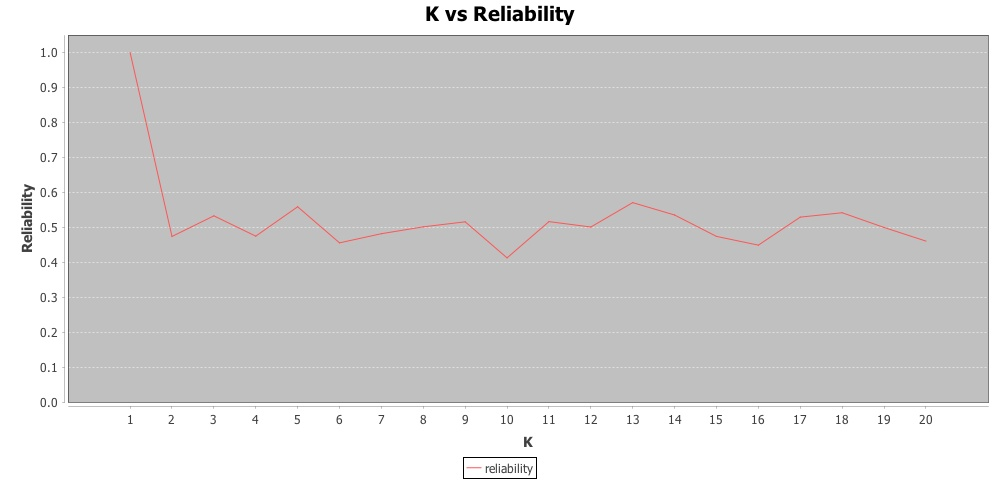
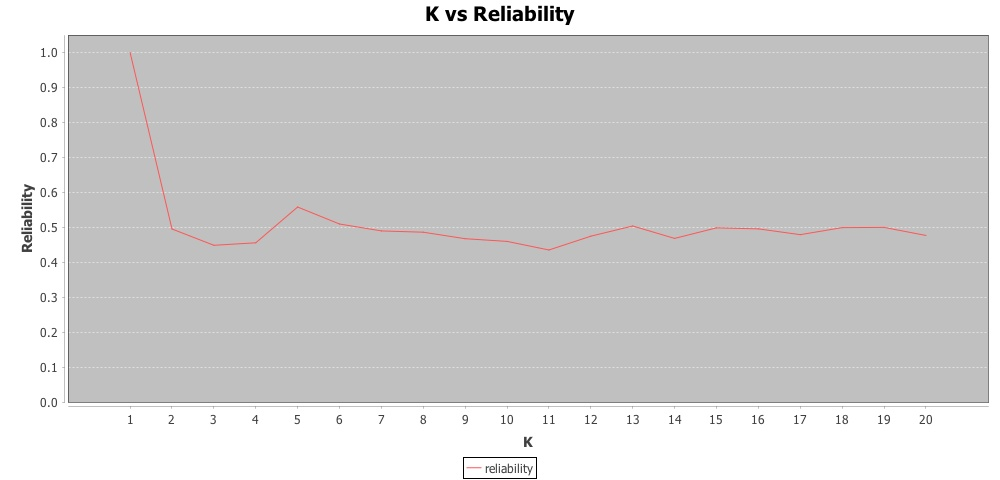
Leet Code practice code

diff --git a/JulyLeetCode/leetCode/BinaryTree.java b/JulyLeetCode/leetCode/BinaryTree.java
@@ -1,0 +1,116 @@
+package leetCode;
+
+import java.util.ArrayList;
+import java.util.Iterator;
+import java.util.LinkedList;
+import java.util.List;
+import java.util.Queue;
+import java.util.Stack;
+
+/**
+ * 230. Kth Smallest Element in a BST
+ * 
+ * Given a binary search tree, write a function kthSmallest to find the kth smallest element in it.
+ * Note: 
+ * You may assume k is always valid, 1 ? k ? BST's total elements.
+ * Follow up:
+ * What if the BST is modified (insert/delete operations) often and you need to find the kth smallest frequently? How would you optimize the kthSmallest routine?
+ * @author dbuch
+ *
+ */
+public class BinaryTree {
+
+	static class TreeNode {
+		      int val;
+		      TreeNode left;
+		      TreeNode right;
+		      TreeNode(int x) { val = x; }
+	}
+		 
+	public static void main(String[] args) {
+		/*TreeNode root = new TreeNode(3);
+		root.left = new TreeNode(9);
+		root.right = new TreeNode(20);
+		root.right.right = new TreeNode(7);
+		root.right.left = new TreeNode(15);*/
+		
+		/*TreeNode root = new TreeNode(3);
+		root.left = new TreeNode(1);
+		root.right = new TreeNode(5);
+		root.left.left = new TreeNode(0);
+		root.left.right = new TreeNode(2);
+		root.right.left = new TreeNode(4);
+		root.right.right = new TreeNode(6);*/
+		
+		TreeNode root = new TreeNode(5);
+		root.left = new TreeNode(2);
+		root.right = new TreeNode(-3);
+		List<Double> list = averageOfLevels(root);
+		for (Iterator iterator = list.iterator(); iterator.hasNext();) {
+			Double double1 = (Double) iterator.next();
+			System.out.println(double1);
+		}
+	}
+	
+	 static int kthSmallest(TreeNode root, int k) {
+	        ArrayList<Integer> result = new  ArrayList<Integer>();
+	        traverse(root, result, k);
+	        return result.get(k-1) ;
+	    }
+	    
+	    static  void traverse(TreeNode node,  ArrayList<Integer> result, int k){
+	                if(node.left != null)  traverse(node.left , result, k);
+	                result.add(node.val);                 
+	                if(node.right != null)  traverse(node.right , result, k);  
+	    }
+	
+public static List<Double> averageOfLevels(TreeNode root) {
+	Queue<TreeNode> stack = new LinkedList<>();
+	List<Double> list = new LinkedList<>() ;
+	double n = 0.0 ;
+	double count = 0.0 ;
+	double sum = 0.0 ;
+	double nodeCount = 0.0 ;
+	
+	stack.offer(root);
+	
+	while(!stack.isEmpty()){
+		TreeNode temp = stack.poll();
+		if(temp == null) {
+			count++;
+			if(count >= Math.pow(2, n)){
+				if(nodeCount != 0.0)
+				list.add((double) (sum/nodeCount));
+				sum = 0.0 ;
+				count = 0.0 ;
+				nodeCount = 0.0;
+				n++ ;
+			}
+			continue ;
+		}
+		System.out.println("current node :" + temp.val + " level : " +  n);
+		count++;
+		sum+=temp.val ;
+		nodeCount++;
+
+		if(count >= Math.pow(2, n)){
+			list.add((double) (sum/nodeCount));
+			sum = 0.0 ;
+			count = 0.0 ;
+			nodeCount = 0.0;
+			n++ ;
+		}
+		stack.offer(temp.left); 
+		stack.offer(temp.right);
+	}
+	System.out.println("current nodecount :" +nodeCount + " sum : " +  sum);
+if(sum > 0.0) {
+	list.add((double) (sum/nodeCount));
+
+}
+	return list;
+        
+    }
+
+
+}

diff --git a/JulyLeetCode/leetCode/Equation.java b/JulyLeetCode/leetCode/Equation.java
@@ -1,0 +1,50 @@
+package leetCode;
+
+public class Equation {
+
+	public static void main(String[] args) {
+		System.out.println(isPalindrome(-2147483648));
+		System.out.println(isPalindrome(-10));
+		System.out.println(isPalindrome(0));
+		System.out.println(isPalindrome(-2147447412));
+		System.out.println(isPalindrome(101));
+		System.out.println(isPalindrome(1001));
+
+
+
+	}
+
+	static String solveEquation(String equation) {
+
+		int equateIndex = equation.indexOf('=');
+
+		String lhs = equation.substring(0, equateIndex);
+		String rhs = equation.substring(equateIndex + 1, equation.length());
+		System.out.println(lhs);
+		System.out.println(rhs);
+
+		char[] lhsArr = lhs.toCharArray();
+		char[] rhsArr = rhs.toCharArray();
+		return equation;
+
+	}
+
+	static boolean isPalindrome(int x) {
+		  int y = 0 ;
+	        if(x < 0 || (x > 0 && x%10 == 0)) return false ;
+	        else{
+	        	int z = x ;
+	            while(z >= 10){
+	                y += (z%10);
+	                System.out.println("y is :" +  y);
+	                z=z/10 ;
+	                System.out.println("z is :" +  z);
+	                y = y*10 ;
+	            }
+                y += (z%10);
+                System.out.println("y is :" +  y);
+
+	        }
+	        return x==y ;
+	}
+}

diff --git a/JulyLeetCode/leetCode/PalindromeNumber.java b/JulyLeetCode/leetCode/PalindromeNumber.java
@@ -1,0 +1,51 @@
+package leetCode;
+/**
+ * 9. Palindrome Number
+ * Determine whether an integer is a palindrome. Do this without extra space.
+ * @author dbuch
+ *
+ */
+public class PalindromeNumber {
+
+	public static void main(String[] args) {
+		isPalindrome(1221);
+		isPalindrome2(12321);
+	}
+
+	/**
+	 * Number manipulation.
+	 * @param x
+	 * @return
+	 */
+	 static boolean isPalindrome(int x) {
+         int y = 0 ;
+	        if(x < 0 || (x > 0 && x%10 == 0)) return false ;
+	        else{
+	        	int z = x ;
+	            while(z >= 10){
+	                y += (z%10);
+	                z=z/10 ;
+	                y = y*10 ;
+	            }
+             y += (z%10);
+	        }
+	        return x==y ;
+ }
+	 /**
+	  * String based implementation
+	  * @param x
+	  * @return
+	  */
+	 static boolean isPalindrome2(int x) {
+	        String str = Integer.toString(x);
+			String strReverse = new String();
+			if (x < 0) {
+				strReverse+=(str.substring(str.length()-1,str.length()));
+			}
+			for (int i = (str.length()-1); i >= 0; i--) {
+				strReverse+=(str.substring(i,i+1));
+			}
+		
+			return strReverse.equals(str);
+	    }
+}

diff --git a/NetworkDesignProject1/src/ExhaustiveEnumeration/Driver.java b/NetworkDesignProject1/src/ExhaustiveEnumeration/Driver.java
@@ -231,6 +231,7 @@ public class Driver {
 		for (int i = 0; i < d.length; i++) {
 			Double power = Math.ceil(d[i] / 3);
 			reliabilty[i] = Math.pow(1 - p, power + 1);
+			//reliabilty[i] = Math.pow( p, power );
 
 			/*
 			 * System.out.println("ceiling of d[i]/3 : " + power +
